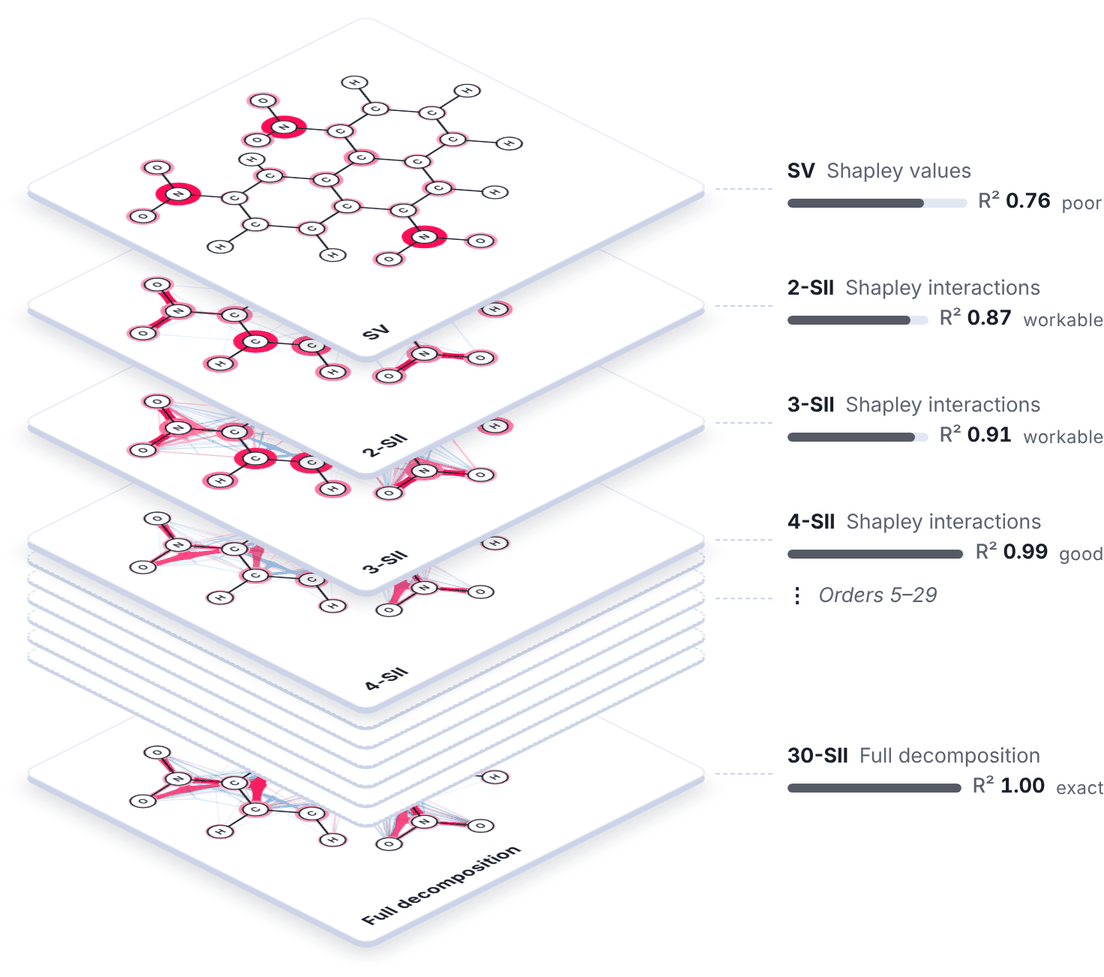
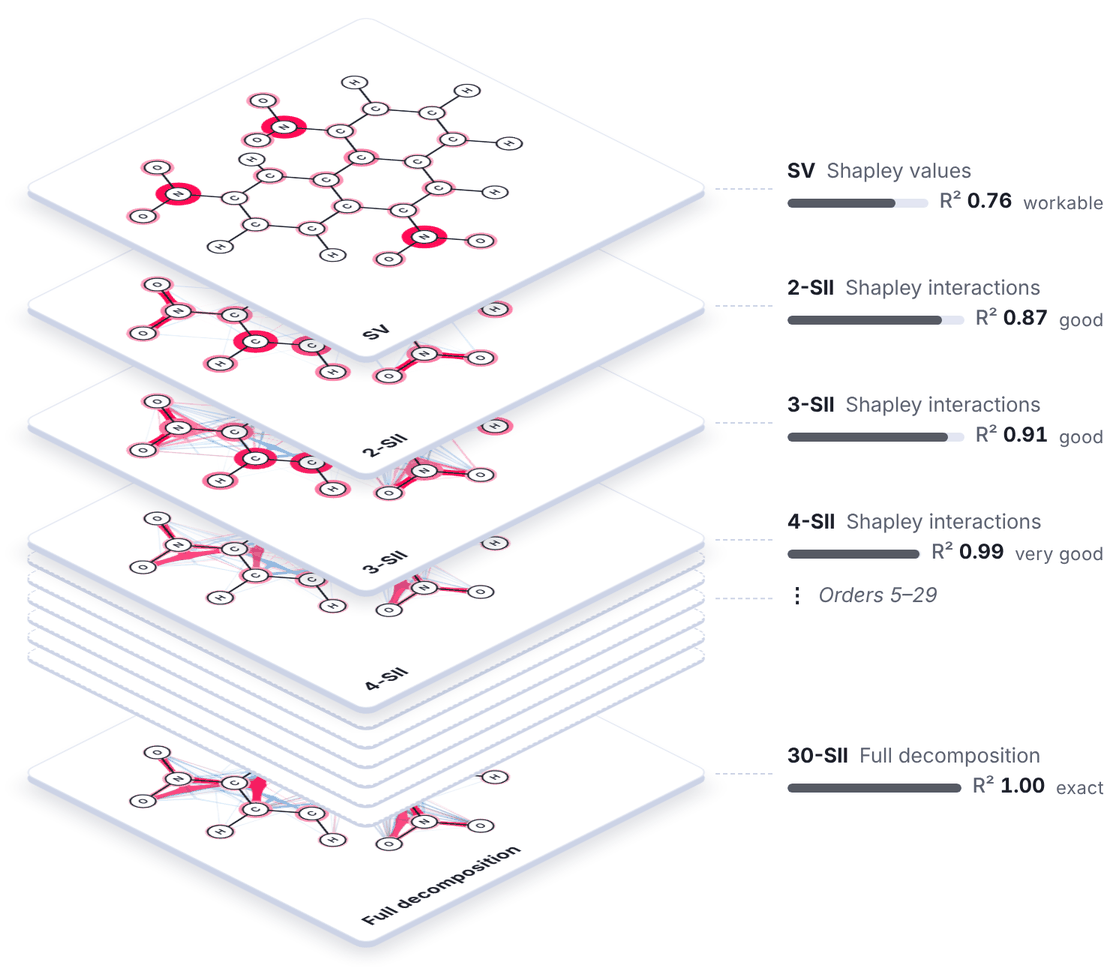
Orders demo: a gentler scale of fit, and a sliding variant of pointing
The verdict beside every sheet's R² now reads poor below 0.6, workable
below 0.8, good below 0.95, very good above, and exact at 1: the average
fit of the 150 houses' Shapley values, 0.77, is workable, not poor.

With data-lift="slide" on the demo, the sheet pointed at slides out of
the stack to the left as it lies, without tilting or growing, over the
others, which stay where they are. The sheets are smaller to leave the
room for it. The demo follows the attribute while it runs; by default,
the sheet still lifts out of the stack. The fallback image shows the new
verdicts.

Claude-Session: https://claude.ai/code/session_019qiuyEoqTxUYBXqUZ7PZqM

diff --git a/docs/source/demos/orders/assets/demo.js b/docs/source/demos/orders/assets/demo.js
@@ -13,12 +13,13 @@
 // each); and how SigLIP 2, a black box, matches the photo and caption of the FIxLIP demo, explained
 // by ProxySHAP through an XGBoost proxy, without adjustment. The full decomposition is k-SII of
 // order n, the number of players; the orders above the highest one with an interaction (the trees'
-// depth, the network's receptive field, the proxy's depth) all equal it. The
-// explanations are precomputed (../compute) into data.js. Pointing at a
-// sheet (hover, keyboard focus on its row, or a tap that pins it) lifts it out of the stack: the
-// sheets above it move up, those below it move down, and the sheet tilts towards the reader and
-// grows. A ring marks its order on the plot; pointing along the plot lifts the sheet of the order
-// pointed at, or brings out the blank sheet of an order between.
+// depth, the network's receptive field, the proxy's depth) all equal it. The explanations are
+// precomputed (../compute) into data.js. Pointing at a sheet (hover, keyboard focus on its row, or
+// a tap that pins it) lifts it out of the stack: the sheets above it move up, those below it move
+// down, and the sheet tilts towards the reader and grows; with data-lift="slide" on the demo, the
+// sheet slides out of the stack as it lies, over the others, which stay where they are. A ring
+// marks its order on the plot; pointing along the plot lifts the sheet of the order pointed at, or
+// brings out the blank sheet of an order between.
 //
 // The sheets are drawn in an axonometric view: a square face, turned in its plane and squashed
 // vertically, so that every corner of every sheet is known here exactly. The script uses them to
@@ -53,6 +54,10 @@
   // the blank sheets of an example: as many for every example (where it skips as many orders), so
   // that every stack looks as deep
   const BLANKS = 6;
+  // with data-lift="slide" on the demo, the sheet pointed at slides out of the stack instead, as it
+  // lies, and the others stay where they are: how far it slides, in units of its width, and down
+  const SLIDE = 0.32;
+  const DROP = 0.03; // in units of a sheet's side
   const THICKNESS = 4; // pixels: the sheets' edge, below their face
   const PLOT = { height: 176, left: 42, right: 14, top: 14, bottom: 40 }; // pixels
 
@@ -464,10 +469,13 @@
     const text = fit2(r2);
     return ["R² ", text.startsWith(">") ? text : `= ${text}`];
   };
+  // how well an explanation fits: exact, very good from R^2 = 0.95, good from 0.8, workable from
+  // 0.6, else poor
   const verdict = (r2) => {
     if (r2 >= 0.999995) return "exact";
-    if (r2 >= 0.95) return "good";
-    if (r2 >= 0.8) return "workable";
+    if (r2 >= 0.95) return "very good";
+    if (r2 >= 0.8) return "good";
+    if (r2 >= 0.6) return "workable";
     return "poor";
   };
   const count = (n) => n.toLocaleString("en-US");
@@ -705,11 +713,13 @@
     function measure() {
       const width = stage.clientWidth;
       const narrow = width < 560;
+      const slide = root.dataset.lift === "slide";
       const ladderWidth = narrow ? Math.max(92, width * 0.3) : Math.min(240, width * 0.3);
       const gap = narrow ? 8 : 28;
       const spread = Math.abs(Math.cos(TURN)) + Math.abs(Math.sin(TURN));
       const room = width - ladderWidth - gap;
-      const side = Math.max(110, Math.min(360, room / (LIFTED.scale * spread)));
+      // the room holds the lifted sheet, or the stack and the sheet slid out of it
+      const side = Math.max(110, Math.min(360, room / ((slide ? 1 + SLIDE : LIFTED.scale) * spread)));
       const height = (pose) => side * pose.scale * pose.tilt * spread;
       // the same height for every example: the most sheets and blank sheets of any
       const n = Math.max(...data.examples.map((example) => example.sheets.length));
@@ -718,22 +728,27 @@
       const open =
         height(RECEDED) + height(LIFTED) - OVERLAP * side + (n - 2) * OPEN_STRIP * side + blanks * BLANK_OPEN_STRIP * side;
       const rest = height(REST) + (n - 1) * REST_STRIP * side + blanks * BLANK_REST_STRIP * side;
+      // a sheet slides out to the left: the stack lies right of the middle by half of that
+      const slideBy = slide ? SLIDE * side * spread : 0;
       return {
         width,
         narrow,
         side,
+        slideBy,
         ladderLeft: width - ladderWidth,
-        center: room / 2,
-        height: Math.ceil(Math.max(open, rest) + 2 * THICKNESS + 16),
+        center: room / 2 + slideBy / 2,
+        height: Math.ceil((slide ? rest + DROP * side : Math.max(open, rest)) + 2 * THICKNESS + 16),
         poseHeight: height,
       };
     }
 
     // the place (center) and pose of every item: stacked so that a strip of every sheet shows below
-    // the one above it, and the lifted sheet, which lies over all others, shows whole
+    // the one above it, and the lifted sheet, which lies over all others, shows whole; or, sliding,
+    // every sheet as at rest, and the one pointed at slid out of the stack, over all others
     function layout(active) {
       const g = geometry;
-      const lifted = active === null ? null : sheetItems()[active];
+      const pointed = active === null ? null : sheetItems()[active];
+      const lifted = g.slideBy ? null : pointed;
       const centers = [];
       const poses = [];
       let bottom = 0;
@@ -748,11 +763,14 @@
         poses.push(pose);
       });
       const offset = (g.height - bottom) / 2;
-      return items.map((item, position) => ({
-        pose: poses[position],
-        x: g.center,
-        y: centers[position] + offset + (item.order === state.blank ? PEEK * g.side : 0),
-      }));
+      return items.map((item, position) => {
+        const out = g.slideBy && item === pointed;
+        return {
+          pose: poses[position],
+          x: g.center - (out ? g.slideBy : 0),
+          y: centers[position] + offset + (item.order === state.blank ? PEEK * g.side : 0) + (out ? DROP * g.side : 0),
+        };
+      });
     }
 
     // the corners of a sheet on the stage (left, top, right, bottom for the turn of -45 degrees)
@@ -897,7 +915,7 @@
         fitBox.append(
           meter,
           el("span", "orders-demo-r2", fit2(sheet.r2)),
-          el("span", `orders-demo-verdict orders-demo-verdict-${verdict(sheet.r2)}`, verdict(sheet.r2)),
+          el("span", `orders-demo-verdict orders-demo-verdict-${verdict(sheet.r2).replace(" ", "-")}`, verdict(sheet.r2)),
         );
         row.append(title, fitBox);
         row.addEventListener("pointerenter", (event) => {
@@ -974,7 +992,7 @@
         row.style.transform = `translateY(${roundTo(right[1], 2)}px) translateY(-50%)`;
         row.style.setProperty("--orders-lead", `${Math.max(0, roundTo(g.ladderLeft - right[0] - 4, 2))}px`);
         row.classList.toggle("orders-demo-active", lifted && item.index === active);
-        row.classList.toggle("orders-demo-compact", lifted && item.index !== active);
+        row.classList.toggle("orders-demo-compact", lifted && item.index !== active && !g.slideBy);
         row.setAttribute("aria-pressed", String(lifted && item.index === active));
       });
 
@@ -984,7 +1002,7 @@
         const target = blanks.find((item) => item.order === state.blank) ?? blanks[Math.floor((blanks.length - 1) / 2)];
         const right = rightCorner(places[items.indexOf(target)]);
         blankRow.classList.toggle("orders-demo-active", state.blank !== null);
-        blankRow.classList.toggle("orders-demo-compact", lifted);
+        blankRow.classList.toggle("orders-demo-compact", lifted && !g.slideBy);
         // beside the blank sheet, but clear of the rows above and below it, which are taller where
         // the blank sheets lie close together (on narrow screens)
         const [above, below] = [rows.length - 2, rows.length - 1];
@@ -1240,6 +1258,11 @@
       if (plotBox.clientWidth !== plotWidth) drawPlot();
     }).observe(root);
     new ResizeObserver(() => movePill(true)).observe(switcher);
+    // the demo follows its data-lift attribute: a sheet lifts out (by default), or slides out
+    new MutationObserver(() => {
+      geometry = measure();
+      place(state.active);
+    }).observe(root, { attributes: true, attributeFilter: ["data-lift"] });
 
     // the first example fades in, as every next one
     root.classList.add("orders-demo-fading");

diff --git a/docs/source/demos/orders/assets/demo.css b/docs/source/demos/orders/assets/demo.css
@@ -556,6 +556,7 @@ body[data-theme="dark"] .orders-demo {
 .orders-demo-verdict {
   font-size: 0.75rem;
   letter-spacing: 0.02em;
+  white-space: nowrap;
 }
 
 .orders-demo-row:hover,
